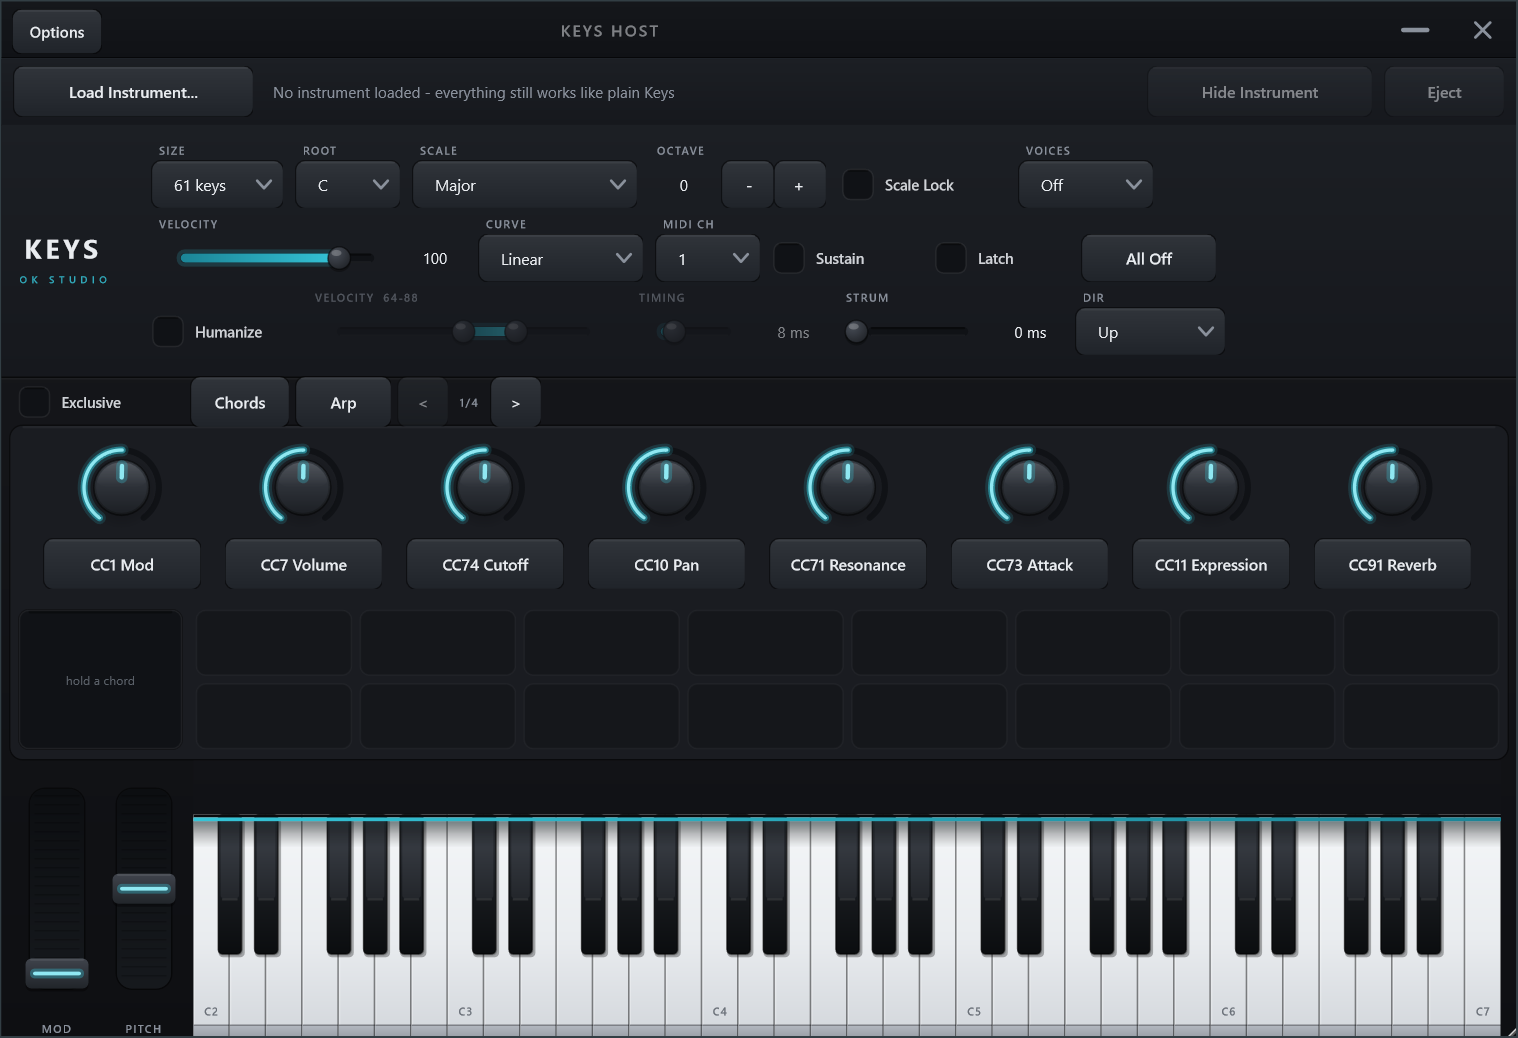
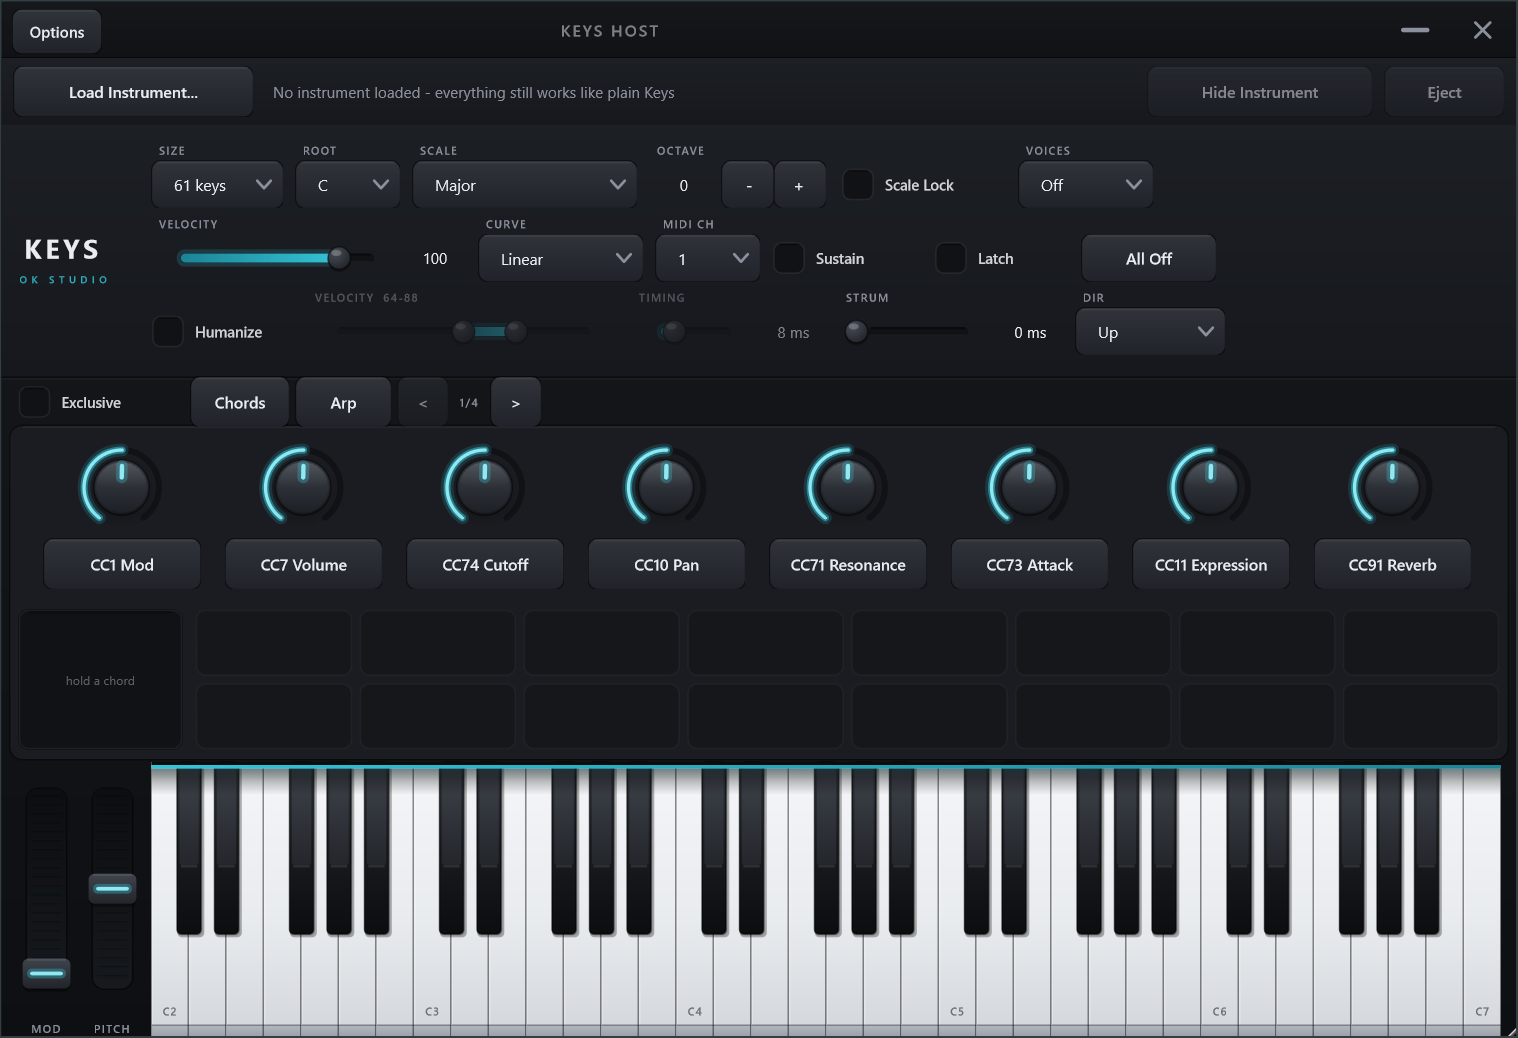
feat: slimmer performance wheels, taller keys
The Mod/Pitch wheel column narrows 112 -> 84 px (36 px sliders, above the
34 px mouse-only floor) and the key-height cap rises 150 -> 185 px, closing
the dead band between the pad strip and the keybed at the default size.
Screenshots refreshed.

Changed region(s): [[0.0, 0.7399, 0.9908, 1.0], [0.031, 0.9249, 0.0619, 0.9557]]

diff --git a/src/ui/PianoKeyboard.cpp b/src/ui/PianoKeyboard.cpp
@@ -50,7 +50,9 @@ void PianoKeyboard::layoutKeys()
     const float ww = area.getWidth() / (float) whiteCount;
     // Cap the key height so keys stay piano-proportioned instead of stretching to fill
     // a tall window; any extra height becomes instrument body above, keys anchored low.
-    const float wh = juce::jmin(area.getHeight(), 150.0f);
+    // (185, up from 150: at the default window size the old cap left a wide dead band
+    // between the pad strip and the keybed.)
+    const float wh = juce::jmin(area.getHeight(), 185.0f);
     const float yTop = area.getBottom() - wh;
     const float bw = ww * 0.64f; // Octavium proportions: black ~64% of white width,
     const float bh = wh * 0.62f; // ~62% of its height.

diff --git a/src/PluginEditor.cpp b/src/PluginEditor.cpp
@@ -675,11 +675,12 @@ void KeysEditor::resized()
     knobBank.setBounds(knobRow);
     chordPads.setBounds(padRows);
 
-    // Wheels sit left of the keyboard; the keyboard fills the rest.
+    // Wheels sit left of the keyboard; the keyboard fills the rest. Columns are as
+    // slim as the mouse-only floor allows (40 px column -> 36 px slider, floor 34).
     auto playArea = play;
-    auto wheels = playArea.removeFromLeft(112);
+    auto wheels = playArea.removeFromLeft(84);
     playArea.removeFromLeft(6);
-    auto modCol = wheels.removeFromLeft(54);
+    auto modCol = wheels.removeFromLeft(40);
     wheels.removeFromLeft(4);
     auto pitchCol = wheels;
     modLabel.setBounds(modCol.removeFromBottom(15));

diff --git a/CHANGELOG.md b/CHANGELOG.md
@@ -54,6 +54,10 @@ All notable changes to Keys are documented here. Format follows
   window title, and thin-glyph minimise/close buttons on 38 px targets (the stock
   JUCE wrapper drew its own default-theme bar above the editor). DAW builds are
   unaffected; the host owns the window there.
+- **Layout: slimmer wheels, taller keys.** The Mod/Pitch wheel column narrows from
+  112 to 84 px (each slider 36 px wide, still above the 34 px mouse-only floor) and
+  the key-height cap rises from 150 to 185 px, closing the dead band that sat
+  between the pad strip and the keybed at the default window size.
 - New `scripts/capture-window.ps1` implements the CLAUDE.md screenshot procedure
   (PrintWindow + UI Automation, no focus/cursor theft) for the docs.
 
